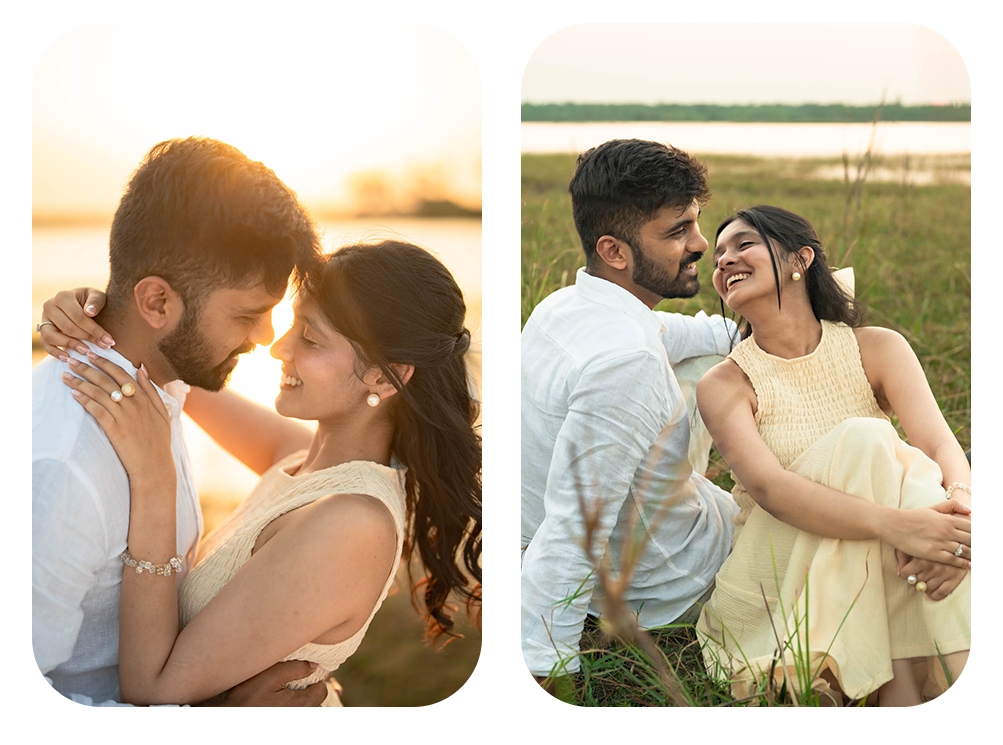
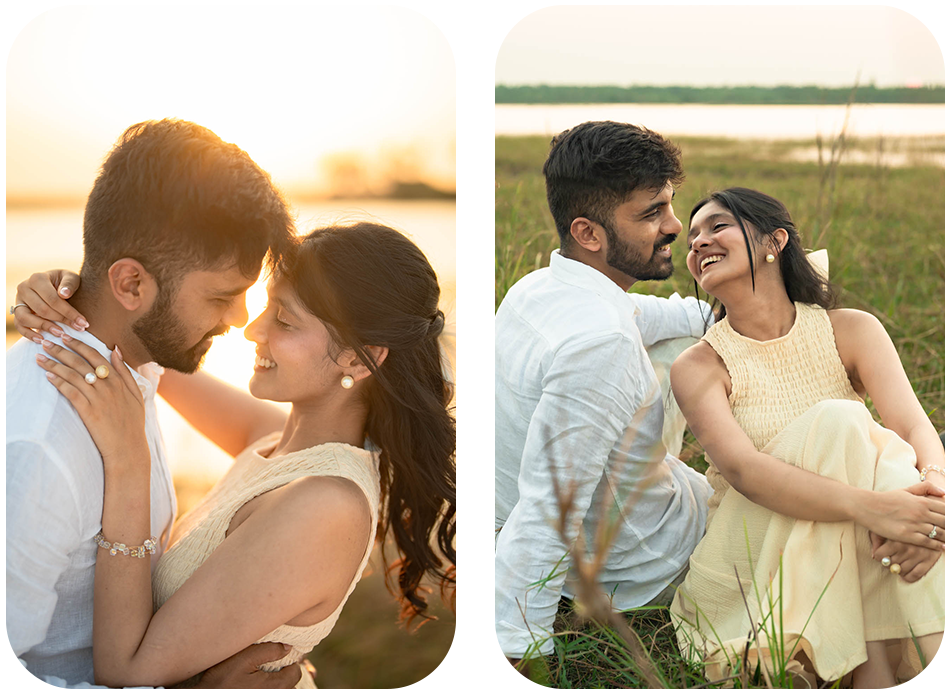
Updates

diff --git a/index.html b/index.html
@@ -5,7 +5,7 @@
     <link rel="icon" type="image/svg+xml" href="/wedding-story/favicon.svg" />
     <meta name="viewport" content="width=device-width, initial-scale=1.0" />
     <title>wedding</title>
-    <script type="module" crossorigin src="/wedding-story/assets/index-wLNPhNfe.js"></script>
+    <script type="module" crossorigin src="/wedding-story/assets/index-DWXvwvOS.js"></script>
     <link rel="stylesheet" crossorigin href="/wedding-story/assets/index-D6GqMtBj.css">
   </head>
   <body>